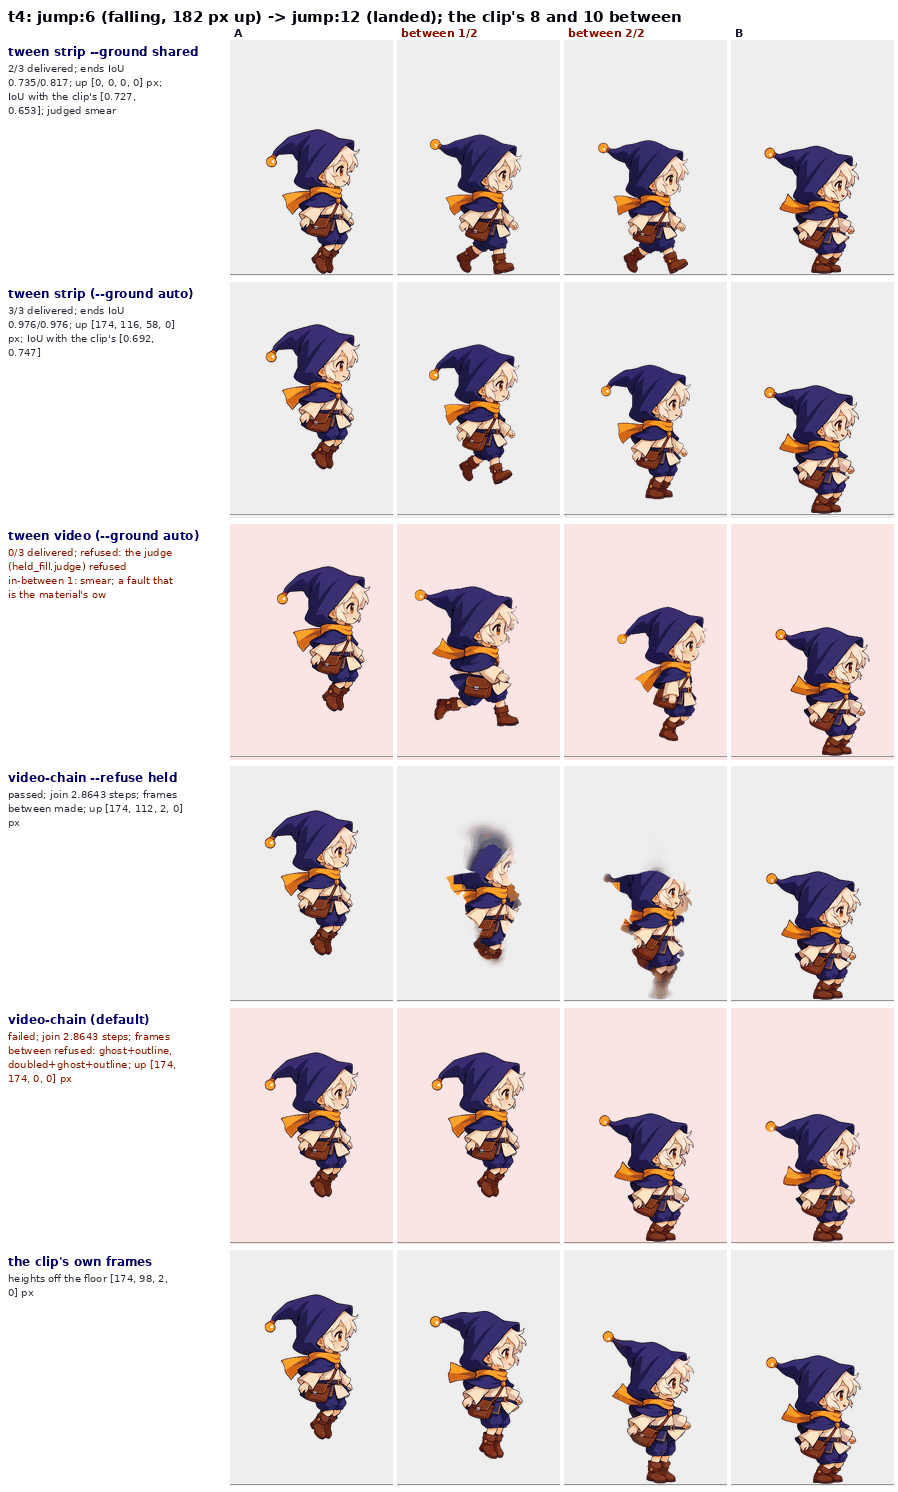
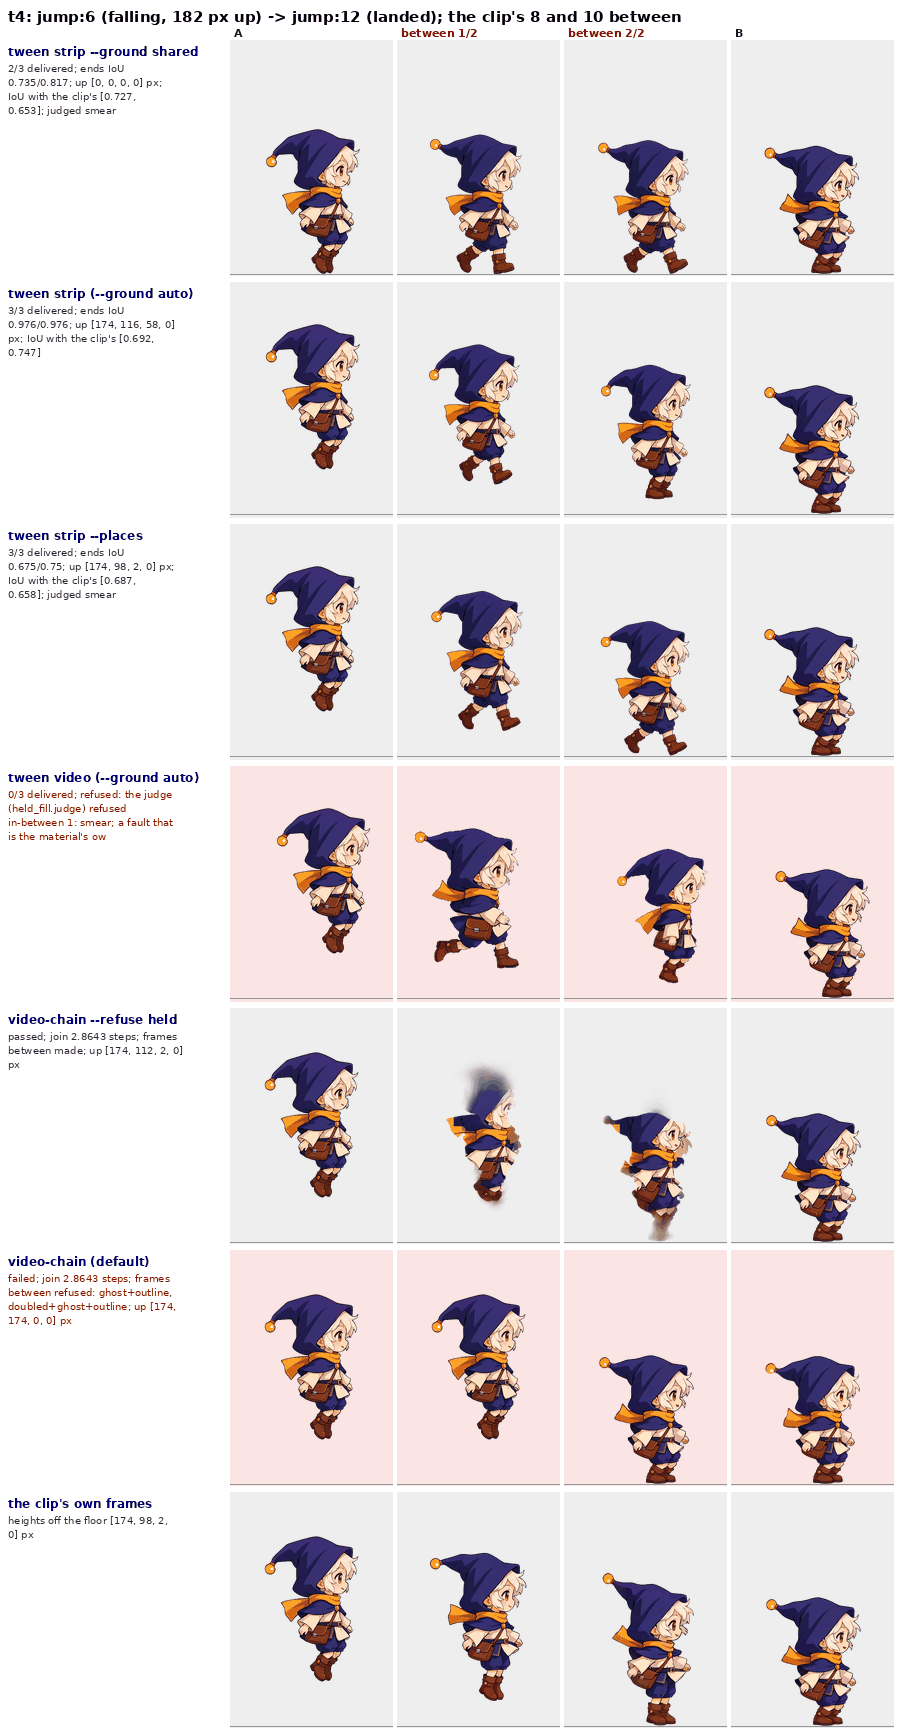
dev: on t4 a strip placed where the clip's own frames 8 and 10 are (--places), its height and anchor against the clip's; the t4 GIF and sheet again

diff --git a/scripts/dev/tween_chain_demo.py b/scripts/dev/tween_chain_demo.py
@@ -18,6 +18,7 @@ For each, two frames between, five ways, every one through the CLI in a subproce
 |---|---|
 | `strip-shared` | `tween --method strip --ground shared` (every foot on one ground row) |
 | `strip` | `tween --method strip` (`--ground auto`, the default: the height put back where one end is off the floor) |
+| `strip-places` | `t4` only: the same with `--places runs/t4/places.json`, the places of the clip's own frames 8 and 10 (each one's height off the floor, and its anchor's distance from the line between the ends'): what a caller who has the motion gives |
 | `video` | `tween --method video` (`--ground auto`; every fault of the judge refuses, the default) |
 | `chain-held` | `video-chain --piece A=..:F-3:F --piece B=..:T:T+3 --bridge 2 --refuse held` |
 | `chain` | the same with every fault refusing (the default) |
@@ -32,7 +33,8 @@ again from an earlier `--out-dir`. RIFE must be installed for the chain rows (`s
 
 Writes `<out-dir>/runs/<join>/<row>/[try-<k>/]` (each verb's own folder and report), `<out-dir>/summary.json` (each
 try's exit code, seconds and the numbers its report gives, each row's frames' height off the floor, `rise_px`, and on
-`t4` each frame's silhouette IoU with the clip's own frame and its height error), and `<out-dir>/showcase/`:
+`t4` each frame's silhouette IoU with the clip's own frame, its height error and its anchor's error off the line between
+the ends'), and `<out-dir>/showcase/`:
 `tween-vs-chain-<join>.gif` (four rows playing A, the two frames between, B, `t4` with the clip's own frames beside
 them; a grey line on the lower end's floor) and `tween-vs-chain-<join>.png` (every row on one sheet), each under 1 MB.
 """
@@ -59,14 +61,42 @@ JOINS = {  # name: (from clip, from frame, to clip, to frame, what it is)
 }
 TRUTH = {"t4": ("pip-jump", (6, 8, 10, 12))}  # the clip's own frames at A, 1/3, 2/3, B
 ROWS = ("strip-shared", "strip", "video", "chain-held", "chain")
-TWEEN_ROWS = ("strip-shared", "strip", "video")
+TWEEN_ROWS = ("strip-shared", "strip", "strip-places", "video")
+PLACES_FILE = "places.json"  # runs/<join>/places.json: the clip's own frames' places, for the strip-places row
 TITLES = {"strip-shared": "tween strip --ground shared", "strip": "tween strip (--ground auto)",
           "video": "tween video (--ground auto)", "chain-held": "video-chain --refuse held",
-          "chain": "video-chain (default)", "truth": "the clip's own frames"}
+          "chain": "video-chain (default)", "truth": "the clip's own frames",
+          "strip-places": "tween strip --places"}
 DESCRIPTION = ("chibi wizard kid Pip: big indigo pointed hood with a yellow bell tip, orange scarf, cream tunic, "
                "brown satchel and boots, side view facing right")
 MARGIN = (12, 13)  # px added to the larger clip's width and height: the canvas of the comparison
 FPS = 24
+
+
+def rows_of(join: str) -> tuple[str, ...]:
+    """The rows of a join: where the clip's own frames are known, a strip placed where they are, after the strip."""
+    return ROWS[:2] + ("strip-places",) + ROWS[2:] if join in TRUTH else ROWS
+
+
+def anchor_place(frame: Image.Image) -> tuple[float, float]:
+    """A frame's foot anchor on its canvas: (x, its lowest opaque row's height off the canvas floor)."""
+    from sprite_gen.effects.tween import foot_x
+    box = frame.getchannel("A").getbbox()
+    return box[0] + foot_x(frame.crop(box)), float(frame.height - box[3])
+
+
+def places_from_truth(join: str, states: dict[str, Path]) -> dict:
+    """`--places` read off the clip's own frames between: each one's height off the floor (dy, negative up) and its
+    anchor's distance from the straight line between the ends' anchors (dx): what a caller who has the clip gives."""
+    truth = truth_frames(join, states)
+    (xa, _), (xb, _) = anchor_place(truth[0]), anchor_place(truth[-1])
+    places = []
+    for k, frame in enumerate(truth[1:-1], start=1):
+        x, up = anchor_place(frame)
+        t = k / (len(truth) - 1)
+        places.append({"dx": round(x - (xa + (xb - xa) * t), 1), "dy": -up})
+    clip, picks = TRUTH[join]
+    return {"from": f"{clip} frames {', '.join(str(p) for p in picks[1:-1])} (the clip's own)", "places": places}
 
 
 def build_states(out: Path) -> dict[str, Path]:
@@ -97,6 +127,8 @@ def command(row: str, join: str, states: dict[str, Path], run: Path, provider: s
             "--to-file", str(states[b] / f"frame-{fb + 1:04d}.png"), "--n", str(n), "--provider", provider,
             "--description", DESCRIPTION, "--out-dir", str(run), "--fps", str(FPS), "--include-ends", "--force",
             "--method", "video" if row == "video" else "strip"]
+    if row == "strip-places":
+        args += ["--places", str(run.parents[1] / PLACES_FILE)]
     return args + (["--ground", "shared"] if row == "strip-shared" else [])
 
 
@@ -187,7 +219,12 @@ def against_truth(frames: list[Image.Image], truth: list[Image.Image]) -> dict:
         g, w = _tight(got), _tight(want)
         iou.append(round(silhouette_iou(_scaled(g, w.height), w, "foot"), 3))
     got, want = rise_px(frames), rise_px(truth)
-    return {"iou": iou, "rise_px": want, "rise_error_px": [g - w for g, w in zip(got[1:-1], want[1:-1])]}
+
+    def off_line(fs):  # each frame between's anchor x off the straight line between the ends' anchors
+        xs = [anchor_place(f)[0] for f in fs]
+        return [xs[k] - (xs[0] + (xs[-1] - xs[0]) * k / (len(xs) - 1)) for k in range(1, len(xs) - 1)]
+    return {"iou": iou, "rise_px": want, "rise_error_px": [g - w for g, w in zip(got[1:-1], want[1:-1])],
+            "anchor_error_px": [round(g - w, 1) for g, w in zip(off_line(frames), off_line(truth))]}
 
 
 def summarise(join: str, runs: Path, states: dict[str, Path], tries: int, timing: dict) -> dict:
@@ -195,7 +232,7 @@ def summarise(join: str, runs: Path, states: dict[str, Path], tries: int, timing
     truth = truth_frames(join, states)
     if truth:
         out["truth"] = {"rise_px": rise_px(truth)}
-    for row in ROWS:
+    for row in rows_of(join):
         dirs = [d for d in run_dirs(row, join, runs, tries) if (d / "log.txt").is_file()]
         if not dirs:
             continue
@@ -255,12 +292,12 @@ def render(join: str, runs: Path, summary: dict, states: dict[str, Path], tries:
            height: int) -> list[Path]:
     """The GIF (four rows playing, and the clip's own frames where there are) and the sheet (every row's four frames)."""
     rows = {}
-    for row in ROWS:
+    for row in rows_of(join):
         entry = summary[join][row]
         frames, refused = frames_of(row, run_dirs(row, join, runs, tries)[entry["shown"]])
         rows[row] = (frames, refused, entry)
     truth = truth_frames(join, states)
-    order = list(ROWS) + (["truth"] if truth else [])
+    order = list(rows_of(join)) + (["truth"] if truth else [])
     if truth:
         rows["truth"] = (truth, False, summary[join]["truth"])
     zoom = 200 / height
@@ -344,7 +381,11 @@ def main(argv: list[str] | None = None) -> int:
     timing_path = out / "timing.json"
     timing = json.loads(timing_path.read_text()) if timing_path.is_file() else {}
     if not args.render_only:
-        todo = [(row, j, d) for j in joins for row in ROWS if not (args.no_provider and row in TWEEN_ROWS)
+        for j in joins:
+            if j in TRUTH:
+                (runs / j).mkdir(parents=True, exist_ok=True)
+                (runs / j / PLACES_FILE).write_text(json.dumps(places_from_truth(j, states), indent=2) + "\n")
+        todo = [(row, j, d) for j in joins for row in rows_of(j) if not (args.no_provider and row in TWEEN_ROWS)
                 for d in run_dirs(row, j, runs, args.tries) if not (args.resume and stands(row, d))]
         with ThreadPoolExecutor(max(1, args.jobs)) as pool:
             for (row, j, d), result in zip(todo, pool.map(
@@ -356,7 +397,7 @@ def main(argv: list[str] | None = None) -> int:
     show = out / "showcase"
     show.mkdir(exist_ok=True)
     height = Image.open(next(iter(states.values())) / "frame-0001.png").height
-    written = [p for j in joins if all(r in summary[j] for r in ROWS)
+    written = [p for j in joins if all(r in summary[j] for r in rows_of(j))
                for p in render(j, runs, summary, states, args.tries, show, height)]
     (out / "summary.json").write_text(json.dumps({"provider": args.provider, "n": args.n, "tries": args.tries, "joins": {
         j: {"what": JOINS[j][4], **summary[j]} for j in joins}}, indent=2) + "\n")

diff --git a/scripts/dev/README.md b/scripts/dev/README.md
@@ -9,6 +9,6 @@ measurement or a proof that fed a rule now living in the package or its docs:
 | `measure_align_sigma.py` | per-frame horizontal jitter σ of `fit.align_x` variants on a source run's raw strips |
 | `check_visible_magenta.py` | chroma-leak guard for screenshots (`sprite_gen.frames.check_visible_magenta`) |
 | `source_restoration_demo.py` | source restoration end to end on a drawn walker with two melted cells ([loop-comparison](../../docs/loop-comparison.md#restoring-the-active-cut-from-source)): `video-source-manifest`, then `video-loop-repair` and `video-loop-compare` twice (each `improved`) and a third request that changes nothing; exit 0 only when every check holds. Writes the release showcase GIFs and a `summary.json` with no path or time (`--out-dir <new dir>`) |
-| `tween_chain_demo.py` | `tween` beside `video-chain` on four joins between frames of the repository's Pip clips, two with one end off the floor and a landing beside the clip's own frames ([tween](../../docs/tween.md#1-tween-and-video-chain)): two frames between, by `tween --method strip` (`--ground shared` and the default `auto`), `tween --method video` and `video-chain --bridge 2` (`--refuse held` and the default), every one through the CLI, each tween row `--tries` times (default 3); writes each run's folder, a `summary.json` of exit codes, seconds, report numbers, heights off the floor and, on the landing, each frame against the clip's, and the comparison GIFs and sheets (`--out-dir <new dir>`; the tween rows call the provider, `--no-provider` runs the chain rows only, `--resume` runs again only what made nothing) |
+| `tween_chain_demo.py` | `tween` beside `video-chain` on four joins between frames of the repository's Pip clips, two with one end off the floor and a landing beside the clip's own frames ([tween](../../docs/tween.md#1-tween-and-video-chain)): two frames between, by `tween --method strip` (`--ground shared`, the default `auto`, and on the landing `--places` read off the clip's own frames), `tween --method video` and `video-chain --bridge 2` (`--refuse held` and the default), every one through the CLI, each tween row `--tries` times (default 3); writes each run's folder, a `summary.json` of exit codes, seconds, report numbers, heights off the floor and, on the landing, each frame against the clip's, and the comparison GIFs and sheets (`--out-dir <new dir>`; the tween rows call the provider, `--no-provider` runs the chain rows only, `--resume` runs again only what made nothing) |
 
 Run them with the project interpreter (`.venv/bin/python scripts/dev/<name>.py`).
